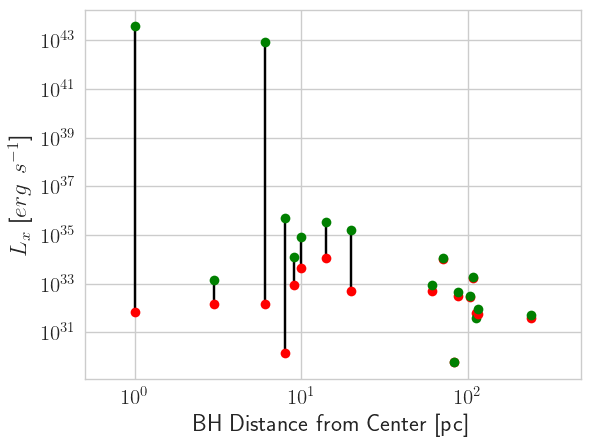
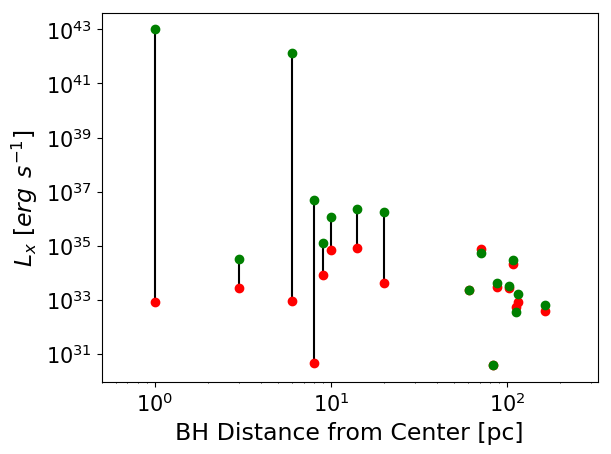
Final edits from  Taeho's second set of suggestions.

diff --git a/paper.tex b/paper.tex
@@ -77,7 +77,7 @@ $^{2}$QuantCo, Inc., 955 Massachusetts Avenue, Cambridge, MA 02139, USA\\
 $^{3}$Hubble Fellow\\
 }
 % These dates will be filled out by the publisher
-\date{Last updated 2020 Jan 27; in original form 2020 Jan 27}
+\date{Last updated \today; in original form \today}
 
 % Enter the current year, for the copyright statements etc.
 \pubyear{2019}
@@ -110,7 +110,7 @@ What are possible outcomes for massive black holes during galaxy mergers?  There
 
 %(check if X-1 and X-2 in NGC 1313 are candidates for such objects see https://arxiv.org/pdf/astro-ph/0608066.pdf )
 
-But how common are encounters of massive black holes?  For galaxies, we know that minor mergers are frequent from the observed evolution of the size and mass of these systems \citep{2010ApJ...718L..73V, 2008ApJ...677L...5V, 2019MNRAS.484..595M}. However, if we assume that all galaxy mergers lead to SMBH mergers we end up overpredicting the  gravitational wave background, as constrained by observations from pulsar timing arrays (PTAs, see \citealt{2008MNRAS.390..192S, 2009MNRAS.394.2255S, 2013MNRAS.433L...1S, 2014ApJ...789..156M, 2015ApJ...799..178K, 2016APS..APRR18003T, 2018ApJ...856...42S, 2018MNRAS.479.4017I, 2018ApJ...863L..36I, 2018NatCo...9..573M}). In fact, dynamical studies of black hole encounters have shown that most encounters between two supermassive black holes will result in a stalling binary, unable to get close enough for gravitational wave emission to drive the merger \citep{1980Natur.287..307B, 2003AIPC..686..201M}.
+But how common are encounters of massive black holes?  For massive galaxies, we know that minor mergers are frequent from the observed evolution of the size and mass of these systems \citep{2010ApJ...718L..73V, 2008ApJ...677L...5V, 2019MNRAS.484..595M}. However, if we assume that all galaxy mergers lead to SMBH mergers we end up overpredicting the  gravitational wave background, as constrained by observations from pulsar timing arrays (PTAs, see \citealt{2008MNRAS.390..192S, 2009MNRAS.394.2255S, 2013MNRAS.433L...1S, 2014ApJ...789..156M, 2015ApJ...799..178K, 2016APS..APRR18003T, 2018ApJ...856...42S, 2018MNRAS.479.4017I, 2018ApJ...863L..36I, 2018NatCo...9..573M}). In fact, dynamical studies of black hole encounters have shown that most encounters between two supermassive black holes will result in a stalling binary, unable to get close enough for gravitational wave emission to drive the merger \citep{1980Natur.287..307B, 2003AIPC..686..201M}.
 
 However, we do not often see SMBH binaries at the centers of massive ellipticals (but see \citealt{2016MNRAS.463.2145C}).  So, what does happen?  \cite{2018MNRAS.473.3410R} indicate that dynamical interactions among multiple orbiting black holes, which will eject a non-negligible fraction of the mass, may solve this problem.  The present paper also addresses this purported dynamical solution, focusing attention on the large fraction of lower-mass black holes that remain to be detected as they orbit in massive galaxies.  We argue that, as a result of few-body interactions among the resident and infalling black holes, some are ejected, some remain in extended orbits, and some (the few most massive ones) do in fact merge. The merger rates we find do not exceed the PTA limits, and some of the orbiting BHs that our simulations predict to exist may actually be detectable via their ability to accrete gas and emit radiation.
 
@@ -145,11 +145,11 @@ The merger tree data we used as the input to our simulations is the result of pr
 
 \citet{2012MNRAS.425..641L}, using \citet{2011ApJ...741...99C}'s work as a basis, created galactic merger trees that compared the properties of in-situ and accreted stellar mass of galaxies at redshift snapshots between $4\geq z \geq0$.
 
-\citet{2015ApJ...799..178K} furthered the merger tree data produced by \citet{2012MNRAS.425..641L} by estimating the evolution of the SMBH population, based on assumptions about the relationship between the properties of SMBHs and those of their host galaxies.
+\citet{2015ApJ...799..178K} furthered the merger tree data produced by \citet{2012MNRAS.425..641L} by estimating the evolution of the SMBH population.  They assume growth of SMBHs to be proportional to that of the bulge stellar mass of the galaxies.  They further assume a constant relation between bulge and total stellar mass at all redshifts, although some observations suggest that the bulge mass fraction for a fixed stellar mass should increase with decreasing redshift (\citet{2012MNRAS.423.1992S}, \citet{2013MNRAS.428.1351G}, \citet{2014MNRAS.441..417A}), with the result that their SMBHs grow faster at high redshift than would be expected in reality.
 
 The primary data we extracted from the above work was organized as follows:
 \begin{itemize}
-    \item Galactic properties - Each galaxy was distinguished by an id number, with properties such as stellar mass, dark matter (DM) mass, central black hole id number, and orbiting black hole id numbers, recorded at 37 redshift slices between $4 > z > 0$.
+    \item Galactic properties - Each galaxy was distinguished by an id number, with properties such as stellar mass, dark matter (DM) mass, central black hole id number, and orbiting black hole id numbers, recorded at 37 redshift slices between $4\geq z \geq0$.
     \item Black Hole properties - Each black hole was also distinguished by an id number, with properties such as seed mass, accreted mass, its host galaxy id number, and time after $z=4$ at which the black hole entered its host galaxy, if it was not the central black hole.
 \end{itemize}
 
@@ -164,18 +164,20 @@ The above criteria narrowed the field of eligible galaxies down to 51.  In consi
 The following cosmological parameters were used in our simulations, consistent with both \citet{2012MNRAS.425..641L} and \citet{2015ApJ...799..178K}:   $\Omega_M = 0.28$, $\Omega_b = 0.046$, $\Omega_\Lambda = 0.72$, $\sigma_8 = 0.82$, $H_0 = 100h^{-1}\mathrm{Mpc}^{-1} = 70 \mathrm{km}\;\mathrm{s}^{-1} \mathrm{Mpc}^{-1}$, and $n = 0.96$.
 
 \subsubsection{Stellar Mass Adjustment}
-As we will explain further in Section \ref{Galaxy background potential}, in our simulations orbiting black holes are inserted into the host galaxy at the effective radius, $R_e$, which is partially dependent on stellar mass, $M_*$ (see Equation \ref{re}).  For every doubling of the stellar mass, $R_e$ increases by a factor of 1.66.  Additionally, the velocity dispersion at the effective radius, $\sigma(R_e)$, which is used to set the parameter $r_h$ (see Equation \ref{jerry}) of our dark matter profile, is also dependent on $M_*$.  In this case, a doubling of $M_*$ would increase $\sigma(R_e)$ by a factor of 1.15.  These variations have direct effects on the ability of the orbiting black holes to merge with the central black hole, and thus can affect our merger statistics and resulting characteristic strain calculations, and therefore it is important to estimate our stellar masses with reasonable accuracy.
+As we will explain further in Section \ref{Galaxy background potential}, in our simulations orbiting black holes are inserted into the host galaxy at the effective radius, $R_e$, which is partially dependent on stellar mass, $M_*$ (see Equation \ref{re}).  For every doubling of the stellar mass, $R_e$ increases by a factor of 1.66.  Additionally, the velocity dispersion at the effective radius, $\sigma(R_e)$, which is used to set the parameter $r_h$ (see Equation \ref{jerry}) of our dark matter profile, is also dependent on $M_*$.  In this case, a doubling of $M_*$ would increase $\sigma(R_e)$ by a factor of 1.15.  These variations have direct effects on the ability of the orbiting black holes to merge with the central black hole, and thus can affect our merger statistics.  Therefore, it is important to estimate our stellar masses with reasonable accuracy.
 
 In cosmological simulations, it is common to overproduce stellar mass, with a general over-efficiency in the range of 2-4 times those measured in observations \citep{1996ApJS..105...19K, 2010MNRAS.404.1111G, 2010ApJ...725.2312O}.  One cited reason for this overproduction is a lack or underestimation of supernova feedback effects in the form of thermal and/or kinetic energy.  However, even when thermal energy from supernova feedback is considered, the effects may be reduced due to the energy being quickly radiated away by rapidly cooling surrounding gas \citep{1996ApJS..105...19K}.  A second common reason for overproduction of stars in cosmological simulations is a lack of modeling for AGN feedback, which may be responsible for solving the phenomenon called the "cooling flow paradox" \citep{2001MNRAS.321L..20F} that suppresses star formation. 
 
 \citet{2012MNRAS.425..641L}, which is the source of our stellar masses, noted that the efficiency of star formation in their simulations, defined as $f_\mathrm{bary}=M_*/M_{\mathrm{DM}}(\Omega_\mathrm{DM}/\Omega_\mathrm{b})$ (where $M_\mathrm{DM}$ is the mass of the dark matter halo), was approximately 0.6.  Compared with the expected range of $0.10 \loa f_\mathrm{bary} \loa 0.15$ that they referenced from \citet{2012ApJ...746...95L}, their stellar masses were a factor of roughly 4 times greater.
 
-We also compared the stellar masses from \citet{2012MNRAS.425..641L} to  observational and abundance matching data from \citet{2018AstL...44....8K}. Figure \ref{fig:stellar1} is a partial, approximate, replication of their Figure 11 (abundance matching line).  We rescaled our stellar masses at $z=0$ in a lognormal manner about the line in order to match the observed data.  Table \ref{table:gal_char} shows the original and rescaled stellar masses.
+Given the overestimate of stellar mass in the merger tree data, we rescaled our stellar masses in order to match the observational and abundance matching data from \citet{2018AstL...44....8K}. In their study, they estimated star formation efficiency and the stellar mass-halo mass relation in massive haloes.  They obtained their data from two sources: a study of nine nearby clusters ($z<0.1$) using Chandra X-ray observations \citep{2009ApJ...692.1033V}, and one of 12 cluters from \citet{2013ApJ...778...14G}.
+
+Figure \ref{fig:stellar1} is a partial, approximate, replication of Figure 11 from \citet{2018AstL...44....8K} (abundance matching line).  We rescaled our stellar masses at $z=0$ by using a lognormal distribution.  For a given galaxy's dark matter mass, the mean of the distribution, $\mu$, was taken to be the point on the abundance matching line at that dark matter mass.  The standard deviation was assumed arbitrarily to be $0.3\mu$.  Table \ref{table:gal_char} shows the original and rescaled stellar masses.
 
 \begin{figure}
 %\begin{center}
 \includegraphics[width=0.5\textwidth]{plots/stellar_to_halo_ratio.png}
-\caption{Approximation of Figure 11 from \citet{2018AstL...44....8K}.  $f_\mathrm{bary}$ is the universal baryon fraction as a function of total halo mass.  Purple dots shown are examples of our rescaled stellar masses}
+\caption{Approximation of Figure 11 from \citet{2018AstL...44....8K}.  $f_\mathrm{bary}$ is the universal baryon fraction as a function of total halo mass.  Purple dots shown are examples of our rescaled stellar masses.  We rescaled our stellar masses at $z=0$ by using a lognormal distribution.  For a given galaxy's dark matter mass, the mean of the distribution was taken to be the point on the abundance matching line at that dark matter mass.  The standard deviation of that mean was taken arbitrarily to be 0.3.}
 \label{fig:stellar1}
 %\end{center}
 \end{figure}
@@ -229,7 +231,7 @@ R_{e} = 2.5 \mathrm{kpc}\left(\frac{M_*}{10^{11}M_{\odot}}\right)^{0.73}(1+z)^{-
 \sigma(R_{e}) = 190\mathrm{km}\;\mathrm{s}^{-1}\left(\frac{M_{*}}{10^{11}M_{\odot}}\right)^{0.2}(1+z)^{0.47},
 \end{equation}
 
-We also give $r_c$ an initial value of 100 pc, which is reasonable for a cored massive system.  We can then equate the value for $\sigma({R_e})$ obtained from Equation \ref{sig} to the analytic expressions for $\sigma$ in the Stone-Ostriker profile (cf. Equations 9 and A1-A4).  The only unknown is $r_h$, which we can solve for using a simple recursive Newton method.  Whether $\sigma_{near}$ or $\sigma_{far}$ is used from Stone-Ostriker is determined by whether $R_e$ is less than or greater than $\sqrt{r_c r_h}$.
+We also give $r_c$ an initial value of 100 pc, which is reasonable for a cored massive system.  We can then equate the value for $\sigma({R_e})$ obtained from Equation \ref{sig} to the analytic expressions for $\sigma$ in the Stone-Ostriker profile (cf. Equations 9 and A1-A4 in \cite{2015ApJ...806L..28S}).  The only unknown is $r_h$, which we can solve for using a simple recursive Newton method.  Whether $\sigma_{near}$ or $\sigma_{far}$ is used from Stone-Ostriker is determined by whether $R_e$ is less than or greater than $\sqrt{r_c r_h}$.
 
 At each timestep in the code, $r_h$ is updated according to the stellar mass and Equations \ref{re} and \ref{sig}.  The core radius, $r_c$, is recalculated only if an orbiting black hole enters within $r_c$.  The work done by diffusion, as described in Section \ref{psd} is calculated, the total potential energy and dynamical friction are updated, and $r_c$ is solved for from Equation 8 in Stone-Ostriker based on conservation of energy.
 
@@ -359,7 +361,7 @@ Figure \ref{fig:mvr} is a realization of the final radii of the remaining wander
 
 
 \section{Signatures of Orbiting Black Holes}
-The large fraction of orbiting black holes predicted by our simulations motivates a back-of-the-envelope calculation to see if orbiting black holes produce detectable signatures. In the following section, we estimate the X-ray luminosities of gas accreted by these BHs while orbiting through their host galaxies.
+The large fraction of orbiting black holes predicted by our simulations motivates a back-of-the-envelope calculation to see if orbiting black holes produce detectable signatures. In the following section, we estimate the X-ray thermal luminosities due to gas accreted by these BHs while orbiting through their host galaxies.
 
 \subsection{Galaxy Gas X-Ray Luminosity}
 First, we construct realistic X-ray luminosities for our host galaxies. We compute the X-ray luminosity of the hot gas in these galaxies, adapting Equation 26 from \citet{2012ApJ...754..125C}. In lieu of summing over discrete particles, we use the beta model of the gas as defined in our equation \ref{beta_model} and integrate:
@@ -370,16 +372,16 @@ First, we construct realistic X-ray luminosities for our host galaxies. We compu
 \end{aligned}
 \end{equation}
 
-The integral evaluates to ${\pi}r_c^3/16$.  $m_p$ is the mass of a proton and $\mu$ is the mean molecular weight.  To calculate $\mu$, we use metallicity $Z=2Z_{\odot}=0.0268$, mass fraction of Helium $Y=Y_{\odot}=0.2485$, and mass fraction of Hydrogen $X=0.7247$.  This results in $\mu=0.606$. The resulting X-ray luminosities are shown in Figures \ref{fig:galgas1} and compared against a sample from \citet{2018ApJ...857...32B}.
+The integral evaluates to ${\pi}r_c^3/16$.  $m_p$ is the mass of a proton and $\mu$ is the mean molecular weight.  To calculate $\mu$, we use metallicity $Z=2Z_{\odot}=0.0268$, mass fraction of Helium $Y=Y_{\odot}=0.2485$, and mass fraction of Hydrogen $X=0.7247$.  This results in $\mu=0.606$. The resulting X-ray thermal luminosities are shown in Figures \ref{fig:galgas1} and compared against a sample from \citet{2018ApJ...857...32B}.
 
 \subsection{Black Hole X-Ray Luminosity}
 \subsubsection{Assumptions and Method Employed}
-Since we model the black holes in this work as point particles for purposes of the simulations, we do not assume any particular structure to them.  Therefore, we adopt the approach and assumptions from \citealt{2018MNRAS.476.1412I} and \citealt{2019MNRAS.486.5377I} in estimating the X-ray luminosities of the remaining black holes left wandering in our subject galaxies.  Their approach assumes rotating accretion flows in a very low-density environment.  Shear viscous forces transport angular momentum outwards, resulting in an accretion disc that forms at the bottom of the distribution.  However, due to the low density of the gas, it does not cool, and convection limits the net accretion, and subsequent radiation luminosity, of the black hole.
+Since we model the black holes in this work as point particles for purposes of the simulations, we do not assume any particular structure to them.  Therefore, we adopt the approach and assumptions from \citealt{2018MNRAS.476.1412I} and \citealt{2019MNRAS.486.5377I} in estimating the X-ray luminosities of the remaining black holes left wandering in our subject galaxies.  Their approach assumes rotating accretion flows in a very low-density environment.  Shear viscous forces transport angular momentum outwards, resulting in an accretion disc that forms at the bottom of the distribution.  However, due to the low density of the gas, it does not cool, and convection limits the net accretion, and subsequent radiation luminosity, of the black hole.  In such a convective infall, the gas finally accreted onto the black hole is much less than the initially infalling gravitationally bound gas.
 
 \subsubsection{Gas Environment Surrounding Black Holes}
 In order to model the surrounding environment of the wandering black holes, we used the data and scaling relations from \citet{2018ApJ...857...32B}, which are based on Chandra X-ray observations of 94 early-type, gas poor galaxies of several morphological types (elliptical, lenticular, SB, BCGs, and cD galaxies).  In particular, we used data from Tables 2 and 3 for temperature in X-ray ($T_x$) and central gas density ($\rho_0$) to model the surrounding gas properties.  Central velocity dispersion ($\sigma_c$) was used as the independent variable.  We estimate the central velocity dispersion in this work based on the potential-density profile in  \citet{2015ApJ...806L..28S} that was also used in modeling the potential in the simulations (cf their equation 11):
 \begin{equation}
-    \sigma^2 = \frac{6GM_{tot}(\frac{\pi^2}{8}-1)}{{\pi}r_h},
+    \sigma_c^2 = \frac{6GM_{tot}(\frac{\pi^2}{8}-1)}{{\pi}r_h},
 \end{equation}
 where G is the gravitational constant, $M_{tot}$ is the total galaxy mass (stars + DM), and $r_h$ is the outer halo radius as defined in the Stone-Ostriker profile (cf. equation 1).
 
@@ -393,13 +395,13 @@ Figures \ref{fig:rho0_vs_sigma} and \ref{fig:Tx_vs_sigma} present the data from 
 
 The dispersion of the data around the fit for $\rho_0$ is at most 1.5-2.0 orders of magnitude.  This leads to a similar variation in the gas density surrounding the black hole, in addition to the ultimate accretion rate of the black hole, due to both having a linear dependence on the central gas density (see Equations \eqref{beta_model} and \eqref{net_accretion} below).
 
-The dispersion of the X-ray temperature data around the fit is approximately 1-1.5 orders of magnitude.  The gas sound speed (see Equation \eqref{gas_sound_speed} below) has a $C_s{\propto}T_x^{0.5}$ dependence on temperature.  However, given the dependence of the accretion rate (see Equation \eqref{net_accretion} below) on gas sound speed of $\dot{M}_{acc}{\propto}C_s^3$, the accretion rate is dependent on temperature to the order of $T_x^{3/2}$.  This is another source of variation in our estimate of accretion rate.
+The dispersion of the X-ray temperature data around the fit is approximately 1-1.5 orders of magnitude.  The gas sound speed (see Equation \eqref{gas_sound_speed} below) has a $C_s{\propto}T_x^{0.5}$ dependence on temperature.  However, given the dependence of the accretion rate (see Equation \eqref{net_accretion} below) on gas sound speed of $\dot{M}_{acc}{\propto}C_s^{-3}$, the accretion rate is dependent on temperature to the order of $T_x^{-3/2}$.  This is another source of variation in our estimate of accretion rate.
 
 \begin{figure}
 \vspace{20pt}%
 \begin{center}
 \includegraphics[width=0.5\textwidth]{plots/"rho_0 vs sigma with errors".png}
-\caption{Central gas density versus central velocity dispersion.  Purple X's represent central gas densities of the galaxies in this study.  Fit in log space is $\rho_0 = 10^{0.6*\log\left(\frac{\sigma_c}{g\ cm^{-3}}\right) - 25} \text{  g cm}^{-3}$.}
+\caption{Central gas density versus central velocity dispersion.  Purple X's represent central gas densities of the galaxies in this study.  Fit in log space is $\rho_0 = 10^{0.6*\log\left(\frac{\sigma_c}{km\ s^{-1}}\right) - 25} \text{  g cm}^{-3}$.}
 \label{fig:rho0_vs_sigma}
 \end{center}
 \end{figure}
@@ -408,7 +410,7 @@ The dispersion of the X-ray temperature data around the fit is approximately 1-1
 \vspace{20pt}%
 \begin{center}
 \includegraphics[width=0.5\textwidth]{plots/"Tx vs sigma with errors".png}
-\caption{X-ray temperature versus central velocity dispersion.  Purple X's represent temperatures of the galaxies in this study.  Fit in log space is $T_x = 10^{2.50*\log\left(\frac{\sigma_c}{g\ cm^{-3}}\right) - 6.06} \text{  keV}$.}
+\caption{X-ray temperature versus central velocity dispersion.  Purple X's represent temperatures of the galaxies in this study.  Fit in log space is $T_x = 10^{2.50*\log\left(\frac{\sigma_c}{km\ s^{-1}}\right) - 6.06} \text{  keV}$.}
 \label{fig:Tx_vs_sigma}
 \end{center}
 \end{figure}
@@ -417,7 +419,7 @@ The local gas density ${\rho}$ surrounding the black hole is obtained from a sim
 \begin{equation} \label{beta_model}
     \rho = \frac{\rho_0}{(1+r^2/r_c^2)^{1.5}} \text{  g cm}^{-3},
 \end{equation}
-where $\rho_0$ is as defined above, r is the black hole's distance from the center of the galaxy, and $r_c$ is the core radius.
+where $\rho_0$ is as defined above, r is the black hole's distance from the center of the galaxy, and $r_c$ is the core radius.  Since the orbiting black hole masses are $10^{-5}-10^{-2}M_{tot}$, we assume there is no change in $M_{tot}$ after black holes are ejected.
 
 The sound speed of the gas, $C_s$, is derived from the ideal gas law:
 \begin{equation}\label{gas_sound_speed}
@@ -426,59 +428,55 @@ The sound speed of the gas, $C_s$, is derived from the ideal gas law:
 where $m_p$ is the proton mass in kilograms.  Since $T_x$ is in keV, the factor of $1.602\times10^{-16}$ is added to convert the temperature to Joules.
 
 \subsubsection{Black Hole Mass Accretion and Luminosity}
-In theory, the black hole mass accretion rate is governed by the Bondi-Hoyle formula (\citet{1944MNRAS.104..273B} and \citet{1952MNRAS.112..195B}):
+At large distances, the black hole mass accretion rate is governed by the Bondi-Hoyle formula (\citet{1944MNRAS.104..273B} and \citet{1952MNRAS.112..195B}):
 \begin{equation}\label{net_accretion}
-    \dot{M}_{B} = f\frac{4{\pi}G^2M_\mathrm{BH}^2\rho}{(C_s^2+v^2)^{3/2}} \text{  g}\text{ s}^{-1},
+    \dot{M}_{B} = \frac{4{\pi}G^2M_\mathrm{BH}^2\rho}{(C_s^2+v^2)^{3/2}} \text{  g}\text{ s}^{-1},
 \end{equation}
 where $\rho$ is the density of the surrounding gas, $C_s$ is the gas sound speed, and $v$ is the velocity of the black hole.
 
 However, due to convective (i.e., inefficient) accretion interior to the Bondi radius (see \cite{2018MNRAS.476.1412I} and \cite{2019MNRAS.486.5377I}), the net accretion to the black hole is often substantially lower than the Bondi-Hoyle accretion.  It can be inferred from the fitting relation given in Equation 31 of \cite{2019MNRAS.486.5377I}:
-\begin{equation}\label{inayoshi_accretion}
-    \frac{\dot{M}_{\bullet}}{\dot{M}_{Edd}} \simeq 1.5\times10^{-6}T_7^{-4/5}\times\left(\frac{\alpha}{0.01}\right)^{0.37}\left(\frac{\dot{m}_B}{10^{-3}}\right)^{3/5}\left(\frac{f_c}{0.1}\right)^{2/5},
-\end{equation}
-where $\dot{M}_{\bullet}$ is the net accretion to the black hole, $T_7$ is the temperature of the ambient gas in units of $10^7\;K$, $\alpha$ is the strength of viscosity (generally accepted to be 0.01; see \citet{1973A&A....24..337S}, \citet{1991ApJ...376..214B}, \citet{1995ApJ...445..767M}, \citet{1996ApJ...463..656S}, \citet{1998RvMP...70....1B}, \citet{2004PThPS.155..409S}, \cite{2018MNRAS.476.1412I}), and $f_c$ is the conductivity suppression factor (generally accepted to be 0.1; see \citet{2001ApJ...562L.129N}, \citet{2004PhRvL..92d5001M}, and \cite{2019MNRAS.486.5377I}).  The Eddington accretion rate, $\dot{M}_{Edd}$, is calculated from the Eddington luminosity, $L_{Edd}$, as follows:
 \begin{subequations}
-    \begin{equation}\label{edd_lum}
-        L_{Edd} = 1.26\times10^{38}\left(\frac{M_{BH}}{M_{\odot}}\right)\;\text{erg}\;\text{s}^{-1}
+    \begin{equation}\label{inayoshi_accretion}
+        \frac{\dot{M}_{\bullet}}{\dot{M}_{Edd}} \simeq 1.5\times10^{-6}T_7^{-4/5}\times\left(\frac{\alpha}{0.01}\right)^{0.37}\left(\frac{\dot{m}_B}{10^{-3}}\right)^{3/5}\left(\frac{f_c}{0.1}\right)^{2/5},
+    \end{equation}
+    \begin{equation}\label{mdotb}
+        \dot{m}_{B} = \dot{M}_{B}/\dot{M}_{Edd},
     \end{equation}
     \begin{equation}\label{edd_acc}
         \dot{M}_{Edd} = \frac{L_{Edd}}{0.1c^2} \text{  g} \text{ s}^{-1},
     \end{equation}
+    \begin{equation}\label{edd_lum}
+        L_{Edd} = 1.26\times10^{38}\left(\frac{M_{BH}}{M_{\odot}}\right)\;\text{erg}\;\text{s}^{-1}.
+    \end{equation}
 \end{subequations}
-where $c$ is the speed of light.  Finally, we can define $\dot{m}_{B}$ in Equation \ref{inayoshi_accretion} as  $\dot{m}_{B} = \dot{M}_{B}/\dot{M}_{Edd}$.
+$\dot{M}_{\bullet}$ is the net accretion to the black hole, $T_7$ is the temperature of the ambient gas in units of $10^7\;K$, $\alpha$ is the strength of viscosity (generally accepted to be 0.01; see \citet{1973A&A....24..337S}, \citet{1991ApJ...376..214B}, \citet{1995ApJ...445..767M}, \citet{1996ApJ...463..656S}, \citet{1998RvMP...70....1B}, \citet{2004PThPS.155..409S}, \cite{2018MNRAS.476.1412I}), and $f_c$ is the conductivity suppression factor (generally accepted to be 0.1; see \citet{2001ApJ...562L.129N}, \citet{2004PhRvL..92d5001M}, and \cite{2019MNRAS.486.5377I}).  The Eddington accretion rate is $\dot{M}_{Edd}$, $c$ is the speed of light, and $L_{Edd}$ is the Eddington luminosity.
 
-Given the above, we estimate the bolometric luminosity of the black holes as $L_{Bol} = \epsilon\dot{M}_{\bullet}c^2$, where $\epsilon$ is the radiative efficiency (cf. Equation 13 in \citet{2019MNRAS.486.5377I}).  For sources having $\dot{M}_B/\dot{M}_{Edd} > 10^{-3}$, we take $L_x=0.1L_{Bol}$, due to the higher net accretion onto the black hole as a result of cooling of the accretion disc and hence higher gas density.  For those having $\dot{M}_B/\dot{M}_{Edd} < 10^{-3}$, we take $L_x=L_{Bol}$.
+Given the above, we estimate the bolometric luminosity of the black holes as:
+\begin{subequations}
+    \begin{equation}\label{bol_lum}
+        L_{Bol} = \epsilon\dot{M}_{\bullet}c^2,
+    \end{equation}
+    \begin{equation}\label{rad_eff}
+        \begin{split}
+        \text{log}\;\epsilon = \begin{cases}
+                        -1.0-(0.0162/\dot{m})^{4}\;\;\text{for 0.023}\;\leq\;\dot{m}, \\
+                        \sum_{n}{}a_{n}(log\;\dot{m})^{n}\;\;\;\;\;\;\;\;\;\text{for}\;10^{-4} <\;\dot{m}\;<\;0.023, \\
+                        \sum_{n}{}b_{n}(log\;\dot{m})^{n}\;\;\;\;\;\;\;\;\;\text{for}\;10^{-8} <\;\dot{m}\;\leq\;10^{-4},
+                               \end{cases}
+        \end{split}
+    \end{equation}
+\end{subequations}
+where $\dot{m}=\dot{M_{\bullet}}/\dot{M}_{Edd}$, and $\epsilon$ is the radiative efficiency (cf. Equation 13 in \citet{2019MNRAS.486.5377I}).  The fitted values are $a_0=-0.807$, $a_1=0.27$, $a_n=0$ ($n\geq2$), $b_0=-1.749$, $b_1=-0.267$, $b_2=-0.07492$, and $b_n=0$ ($n\geq3$).
 
-
-
-
-
-\begin{comment}
-The resulting net black hole mass accretion rate is approximated by \citet{1944MNRAS.104..273B} and \citet{1952MNRAS.112..195B}:
-\begin{equation}\label{net_accretion}
-    \dot{M}_{acc} = f\frac{4{\pi}G^2M_\mathrm{BH}^2\rho}{(C_s^2+v^2)^{3/2}} \text{  M}_\odot \text{ Myr}^{-1},
-\end{equation}
-where the additional factor $f$ (see \cite{2018MNRAS.476.1412I} and \cite{2019MNRAS.486.5377I}) gives the decline in accretion, interior to the BH radius due to convective (i.e., inefficient) accretion, as calculated in \citet{2019MNRAS.486.5377I}, cf. eq 13.  Additionally, $M_{BH}$ is the black hole mass, $G$ is the gravitational constant, and $v$ is the black hole velocity.
-
-Finally, the black hole X-ray luminosity is estimated from:
-\begin{equation}
-    L_x = \epsilon_{rx}\dot{M}_{acc}c^2 \text{  erg s}^{-1},
-\end{equation}
-where the X-ray radiative efficiency ${\epsilon}_{rx}=0.01$ , and we are assuming for the low-luminosity sources that $L_x{\sim}L_{Bol}$.  For sources having $\dot{M}_B/\dot{M}_{Edd} > 10^{-3}$, we take $L_x=0.1L_{Bol}$, due to the higher net accretion onto the black hole as a result of cooling of the accretion disc and hence higher gas density.
-The corresponding Eddington limit is defined as:
-\begin{equation}
-    L_{edd} = 1.26 \times 10^{38} (M/M_{\odot}) \text{  erg s}^{-1}.
-\end{equation}
-\end{comment}
-
+For sources having $\dot{M}_B/\dot{M}_{Edd} > 10^{-3}$, we take $L_x=0.1L_{Bol}$, due to the higher net accretion onto the black hole as a result of cooling of the accretion disc and hence higher gas density.  For those having $\dot{M}_B/\dot{M}_{Edd} < 10^{-3}$, we take $L_x=L_{Bol}$.
 
 
 \subsubsection{Central Black Hole Influence}
-Within the influence radius of the central black hole, which is defined as the radius at which the total mass of the galaxy within that radius (stars + dark matter) equals the mass of the central black hole, the gas density is much higher than otherwise, and equation \eqref{beta_model} cannot be used in the region where the BH Kepler potential dominates.  Starting with the equation for hydrostatic equilibrium, assuming isothermality,
-\begin{equation}
-    C_{s}^2\frac{dln\rho}{dr}= -\frac{GM(r)}{r^2},
+Within the influence radius of the central black hole, which is defined as the radius at which the total mass of the galaxy within that radius (stars + dark matter) equals the mass of the central black hole, the gas density is much higher than otherwise, and equation \eqref{beta_model} cannot be used in the region where the BH Kepler potential dominates.  We start with the equation for hydrostatic equilibrium, assuming isothermality,
+\begin{equation} \label{sound_speed}
+    C_{s}^2\frac{dln\rho}{dr}= -\frac{GM(r)}{r^2}.
 \end{equation}
-we can integrate with respect to r, leading to 
+Inside the sphere of influence, $M(r)$ is constant, and we can integrate Equation \eqref{sound_speed} with respect to r, leading to 
 \begin{equation}
     ln\frac{\rho}{\rho_1} = \frac{GM}{C_{s}^2}\left(\frac{1}{r} - \frac{1}{r_1}\right),
 \end{equation}
@@ -503,11 +501,11 @@ Figure \ref{fig:loobhs} is an approximation to Figure 12 from \cite{2019MNRAS.48
 \end{center}
 \end{figure}
 
-Figure \ref{fig:ldobhs} represents a histogram of the final X-ray luminosities of the black holes, overlaid by a lognormal distribution.  
+Figure \ref{fig:ldobhs} represents a histogram of the final X-ray luminosities of the black holes, overlaid by a lognormal distribution, obtained with a mean $\mu=1.0\times10^{33}$ and standard deviation $\sigma=4.5\times10^{3}$.
 \begin{figure}
 \begin{center}
 \includegraphics[width=0.5\textwidth]{plots/"Final Luminosities using Kohei factor".png}
-\caption{X-ray Luminosity Distribution of Orbiting BHs at z=0.  Green region under curve represents approximate range of detectable orbiting black holes. The dashed, red vertical line is the median X-ray luminosity of our sources.}
+\caption{X-ray Luminosity Distribution of Orbiting BHs at z=0.  Green region under curve represents approximate range of detectable orbiting black holes. The dashed, red vertical line is the median X-ray luminosity of our sources ($1.0\times10^{33}\;\text{erg}\;\text{s}^{-1}$).}
 \label{fig:ldobhs}
 \end{center}
 \end{figure}
